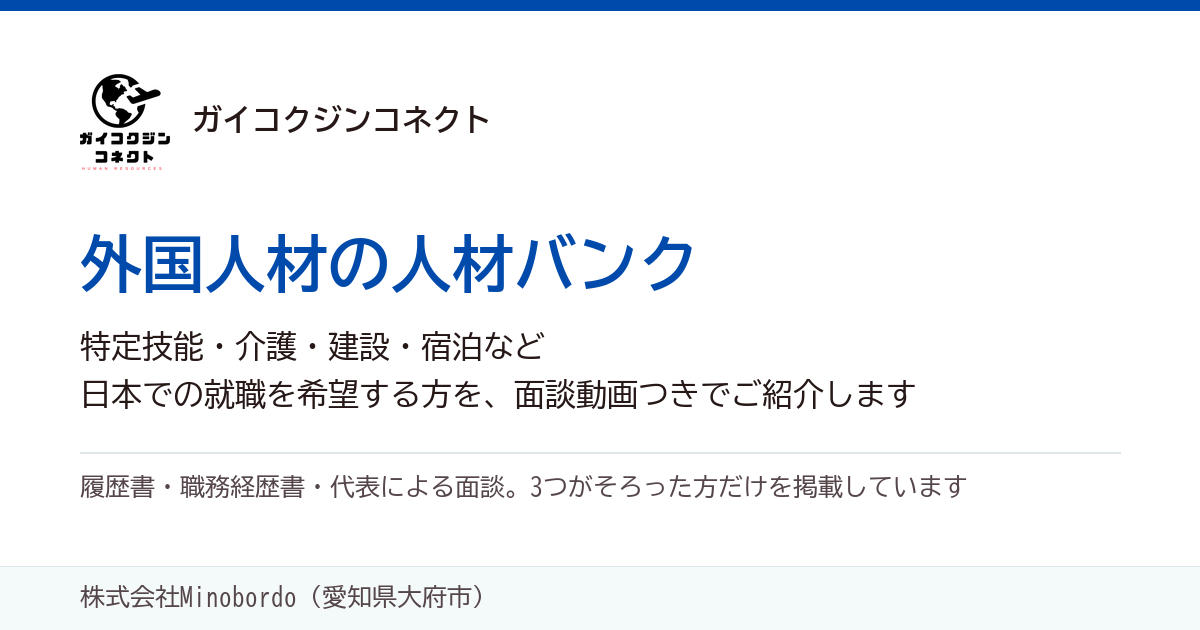
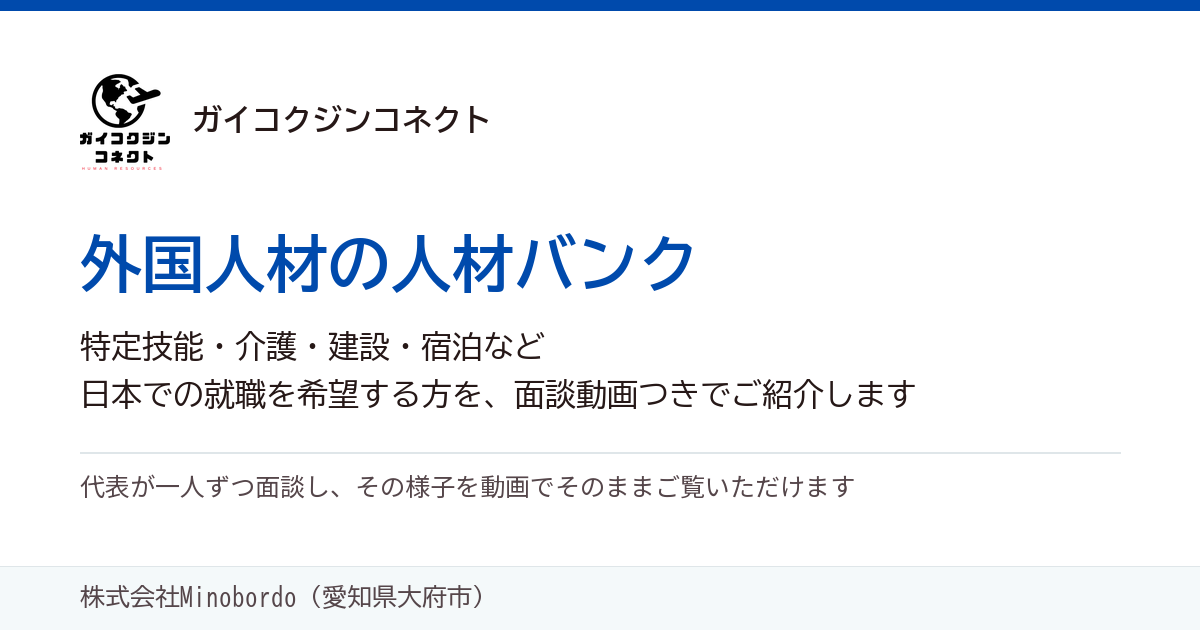
ネパール人候補者 カビ ラジ M. さんを追加。あわせて自由にシェアできる方針に変更し、候補者ページにOGPを追加、掲載条件を履歴書と面談の2つに変更

Changed region(s): [[0.0617, 0.754, 0.8017, 0.8143]]

diff --git a/src/bank.html b/src/bank.html
@@ -55,7 +55,7 @@
     <b>どちらもご覧いただいたうえで、ご検討ください。</b>
   </p>
   <p class="lead">
-    履歴書と職務経歴書は、ご要望をいただいてからお送りします。オンラインでの面談・面接も、
+    履歴書は、ご要望をいただいてからお送りします（職務経歴書がある方は、あわせてお送りします）。オンラインでの面談・面接も、
     御社が会ってみたいと思われた時点で日程を調整します。<b>会うかどうかは、御社にお決めいただくもの</b>だと考えています。
   </p>
   <div class="count"><b>{{count}}</b><span>名が求職中です（{{today}}現在）</span></div>
@@ -67,11 +67,10 @@
 
 <section class="wrap"><div class="cond">
   <h2>掲載の条件</h2>
-  <p class="sub">この3つがそろわない方は、掲載していません。</p>
+  <p class="sub">この2つがそろった方だけを掲載しています。</p>
   <div class="conds">
     <div><span class="n">1</span><b>履歴書</b><p>代表の井村が内容を確認します。記載が足りない場合は、書き直していただいたうえで掲載します。</p></div>
-    <div><span class="n">2</span><b>職務経歴書</b><p>どの現場で、何をどこまで担当していたかを本人に書いていただきます。</p></div>
-    <div><span class="n">3</span><b>井村による面談</b><p>オンラインで直接話を聞きます。その様子を動画でそのままご覧いただけます。</p></div>
+    <div><span class="n">2</span><b>井村による面談</b><p>オンラインで直接話を聞きます。その様子を動画でそのままご覧いただけます。</p></div>
   </div>
 </div></section>
 
@@ -126,7 +125,7 @@
 <section class="wrap"><div class="ask">
   <h2>気になる方がいましたら、ご連絡ください</h2>
   <p>
-    履歴書と職務経歴書をお送りします。オンラインでの面談・面接の日程も調整します。
+    履歴書をお送りします（職務経歴書がある方は、あわせてお送りします）。オンラインでの面談・面接の日程も調整します。
     ご希望の職種や時期だけでも構いません。まずはお気軽にどうぞ。
   </p>
   <div class="ways">
@@ -154,7 +153,7 @@
       </p>
       <ol class="steps">
         <li><b>ご連絡をいただく</b>　対象の方と、希望される職種をお知らせください</li>
-        <li><b>書類を整える</b>　履歴書と職務経歴書を確認し、足りない部分は書き直しをお願いします</li>
+        <li><b>書類を整える</b>　履歴書を確認し、足りない部分は書き直しをお願いします。職務経歴書があれば、あわせて拝見します</li>
         <li><b>面談を収録する</b>　代表の井村がオンラインで直接お話を伺い、そのまま掲載します</li>
       </ol>
       <p class="note2">掲載の条件や費用は、ケースによって異なります。まずはご相談ください。</p>
@@ -182,7 +181,7 @@
 
 <footer><div class="wrap">
   {{company.corp}}／{{company.brand}}　<a href="{{company.site}}" target="_blank" rel="noopener">会社サイトを見る</a><br>
-  このページは検索エンジンに登録していません。候補者本人の個人情報保護のため、社外への転送はお控えください。
+  このページは自由にシェアしていただけます。SNS・メッセージアプリなどで、どんどん拡散してください。
 </div></footer>
 
 <script>

diff --git a/src/template.html b/src/template.html
@@ -6,6 +6,19 @@
 <meta name="robots" content="noindex,nofollow,noarchive,noimageindex">
 <meta name="referrer" content="no-referrer">
 <title>{{displayName}}｜候補者のご紹介｜{{company.brand}}</title>
+<!-- SNS・LINEで共有したときの表示。画像は顔写真（無ければ人材バンク共通の画像） -->
+<meta property="og:type" content="profile">
+<meta property="og:site_name" content="{{company.brand}}">
+<meta property="og:title" content="{{ogTitle}}">
+<meta property="og:description" content="{{ogDesc}}">
+{{#pageUrl}}<meta property="og:url" content="{{pageUrl}}">{{/pageUrl}}
+{{#ogImage}}<meta property="og:image" content="{{ogImage}}">
+<meta property="og:image:alt" content="{{displayName}}さん">
+<meta name="twitter:image" content="{{ogImage}}">{{/ogImage}}
+<meta property="og:locale" content="ja_JP">
+<meta name="twitter:card" content="{{#ogIsFace}}summary{{/ogIsFace}}{{^ogIsFace}}summary_large_image{{/ogIsFace}}">
+<meta name="twitter:title" content="{{ogTitle}}">
+<meta name="twitter:description" content="{{ogDesc}}">
 <style>
 {{&css}}
 </style>
@@ -82,7 +95,7 @@
     詳しい経歴・資格をまとめた履歴書は、ご希望に応じてお送りします。<br>
     {{company.corp}}／{{company.brand}}　<a class="site" href="{{company.site}}" target="_blank" rel="noopener noreferrer">会社サイトを見る</a><br>
     <span class="print-only">{{company.site}}</span>
-    このページは検索エンジンに登録していません。URLをご存じの方だけがご覧になれます。候補者本人の個人情報保護のため、社外への転送はお控えください。<br>
+    このページは自由にシェアしていただけます。SNS・メッセージアプリなどで、どんどん拡散してください。<br>
     候補者ID {{id}}　出力日 {{buildDate}}
   </div>
 </footer>

diff --git a/build.js b/build.js
@@ -553,6 +553,14 @@ function main() {
     const view = buildView(c, slug, logo);
     view.css = css;
     view.status = status;
+    /* SNS・LINEで共有したときの表示。画像は顔写真（c/<slug>.jpg として書き出すもの）を使い、
+       写真が無い方は人材バンク共通の画像（ogp.png）にします */
+    const ogFace = photoFile(slug);
+    view.pageUrl = base ? `${base}c/${slug}.html` : '';
+    view.ogIsFace = !!ogFace;
+    view.ogImage = base ? (ogFace ? `${base}c/${slug}${path.extname(ogFace).toLowerCase()}` : `${base}ogp.png`) : '';
+    view.ogTitle = `${view.displayName}さん｜${view.desiredJob || '候補者のご紹介'}｜${COMPANY.brand} 人材バンク`;
+    view.ogDesc = [view.facts, '代表が一人ずつ面談した動画をご覧いただけます。'].filter(Boolean).join('。');
     /* 候補者IDとお名前が入った状態のフォーム。件名にもそのまま入ります */
     view.formHtml = render(tplFormCandidate, view);
 

diff --git a/src/bank.css b/src/bank.css
@@ -55,7 +55,7 @@ a{color:var(--blue)}
 .cond{padding:42px 0 40px; border-bottom:1px solid var(--line)}
 .cond h2{margin:0 0 6px; font-size:21px; letter-spacing:.04em}
 .cond .sub{margin:0 0 24px; font-size:14px; color:var(--mid)}
-.conds{display:grid; grid-template-columns:repeat(3,1fr); gap:22px}
+.conds{display:grid; grid-template-columns:repeat(2,1fr); gap:22px}
 .conds > div{border:1px solid var(--line); border-top:3px solid var(--blue); border-radius:4px;
   padding:18px 18px 20px; background:#fff}
 .conds .n{display:inline-block; width:24px; height:24px; border-radius:50%; background:var(--blue);
